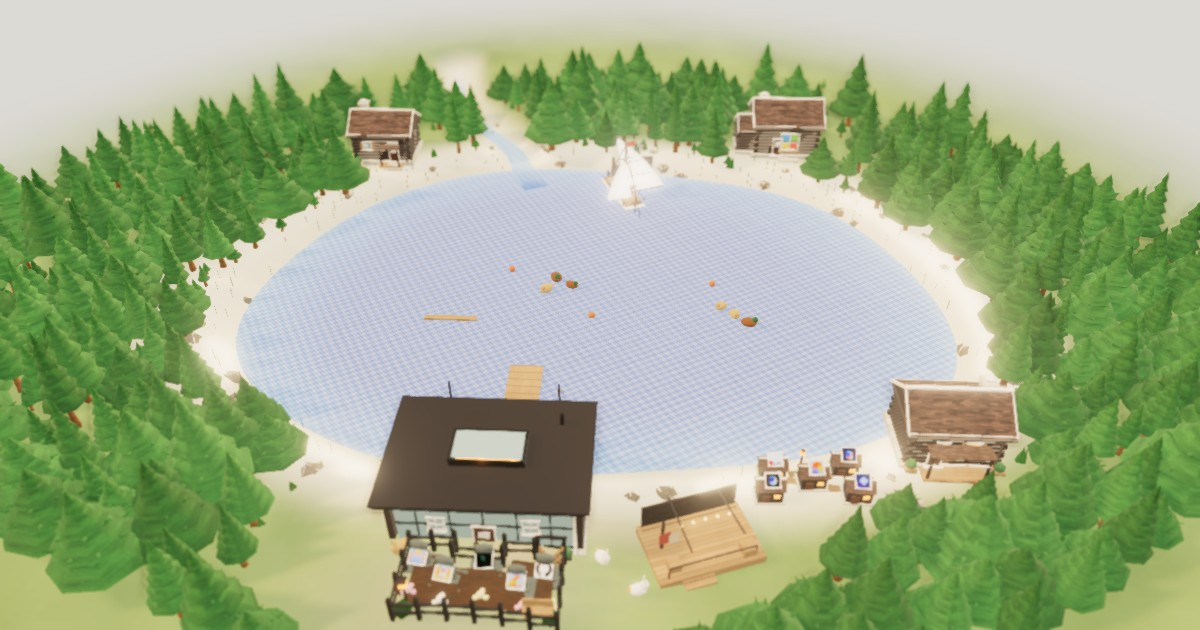
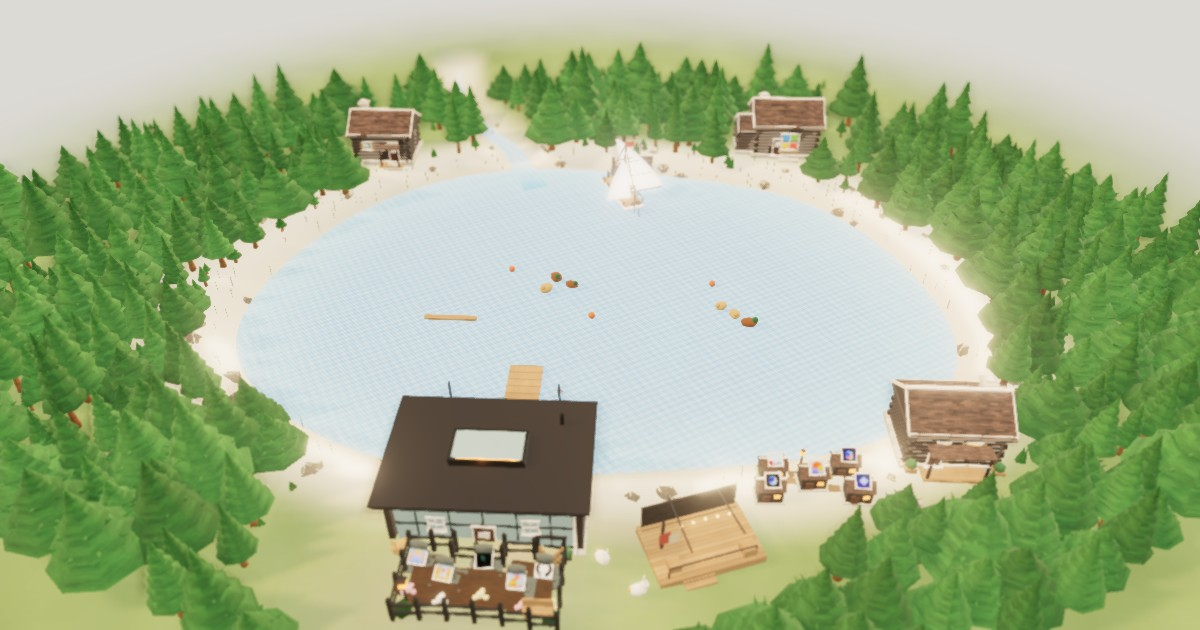
Lift the lake water from cobalt to a brighter azure
Raise the water texture and shader tint so the deep water reads as a clear
sky blue, and refresh the map stills.

Changed region(s): [[0.2467, 0.2714, 0.74, 0.7238], [0.185, 0.6032, 0.2158, 0.6333]]

diff --git a/src/scene/lake.ts b/src/scene/lake.ts
@@ -69,10 +69,10 @@ export function setWaterTime(mesh: THREE.Mesh, time: number) {
 }
 
 export const WATER_COLOR_CHUNK = `#include <color_fragment>
-         vec3 deepWater = vec3(0.05, 0.24, 0.68);
-         vec3 bottom = vec3(0.48, 0.72, 0.92);
-         diffuseColor.rgb = mix(diffuseColor.rgb, deepWater, smoothstep(0.78, 0.2, vShore) * 0.48);
-         diffuseColor.rgb = mix(diffuseColor.rgb, bottom, smoothstep(0.62, 0.96, vShore) * 0.22);
+         vec3 deepWater = vec3(0.12, 0.62, 0.94);
+         vec3 bottom = vec3(0.62, 0.86, 0.97);
+         diffuseColor.rgb = mix(diffuseColor.rgb, deepWater, smoothstep(0.78, 0.2, vShore) * 0.55);
+         diffuseColor.rgb = mix(diffuseColor.rgb, bottom, smoothstep(0.62, 0.96, vShore) * 0.28);
          float foamBand = smoothstep(0.8, 0.95, vShore);
          float foamNoise = texture2D(normalMap, vNormalMapUv * 3.2 + vec2(uTime * 0.12, -uTime * 0.05)).y;
          float foam = foamBand * smoothstep(0.4, 0.78, foamNoise);
@@ -119,7 +119,7 @@ function shadeWater(material: THREE.MeshStandardMaterial) {
          normal = normalize(tbn * mapN);`,
       )
   }
-  material.customProgramCacheKey = () => 'lake-water-tahoe'
+  material.customProgramCacheKey = () => 'lake-water-azure'
 }
 
 export function buildWatercraft(

diff --git a/src/scene/river.ts b/src/scene/river.ts
@@ -143,7 +143,7 @@ function shadeRiver(material: THREE.MeshStandardMaterial) {
          normal = normalize(tbn * mapN);`,
       )
   }
-  material.customProgramCacheKey = () => 'river-flow-tahoe'
+  material.customProgramCacheKey = () => 'river-flow-azure'
 }
 
 function addStones(parent: THREE.Object3D, disposal: Disposal, atlas: Atlas) {
